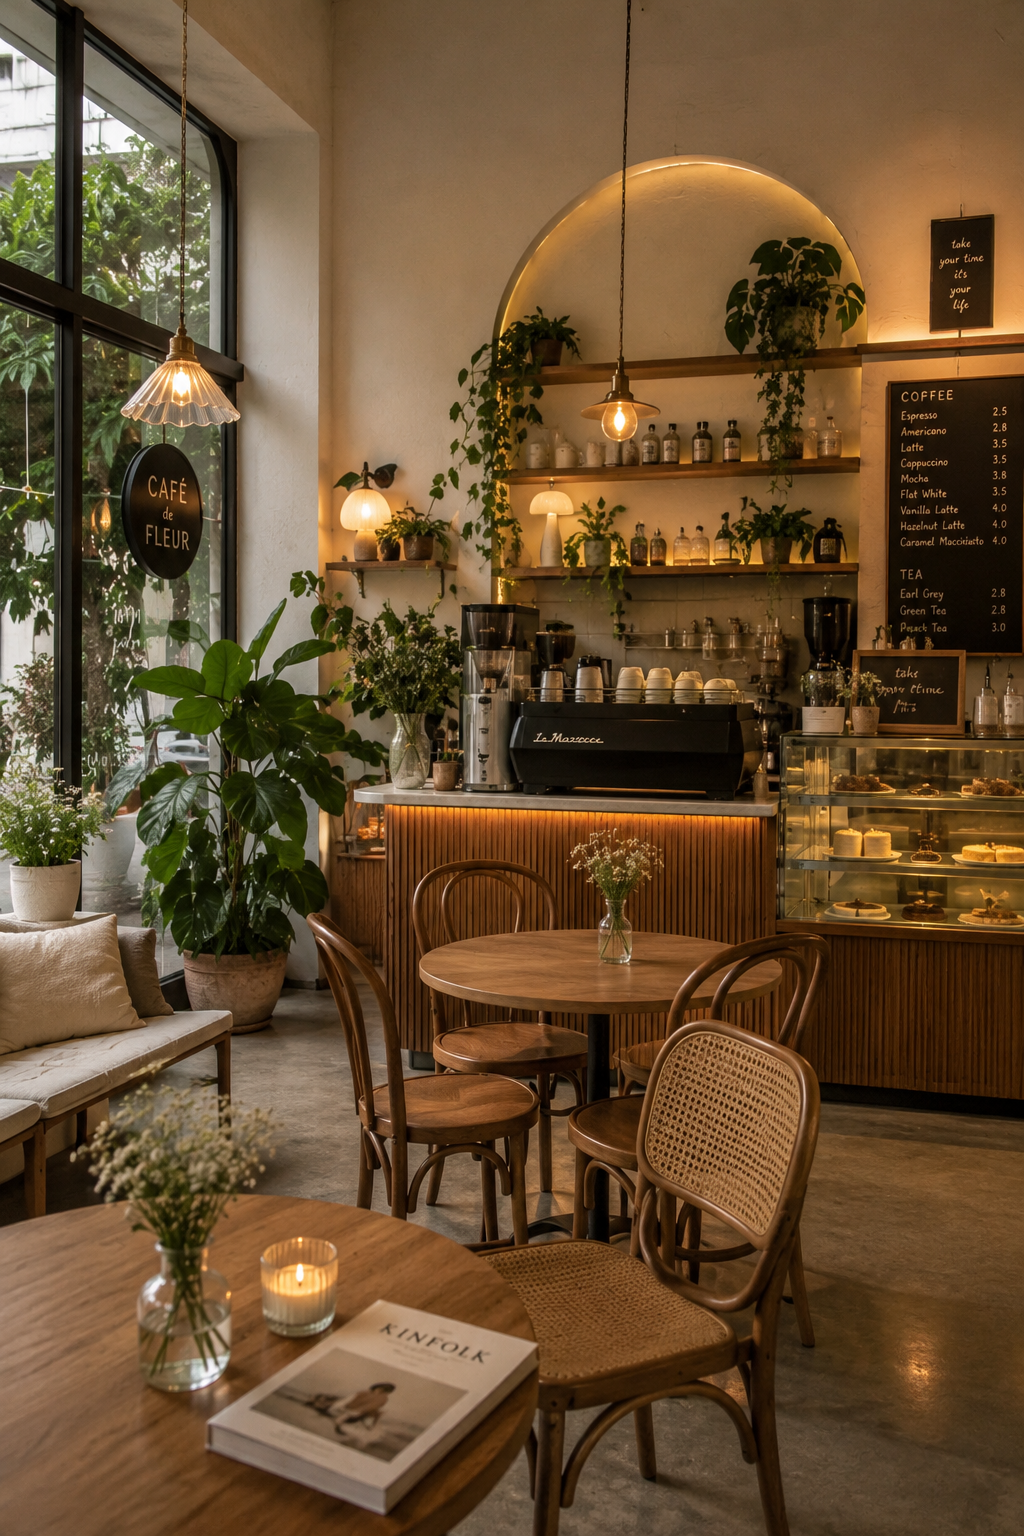
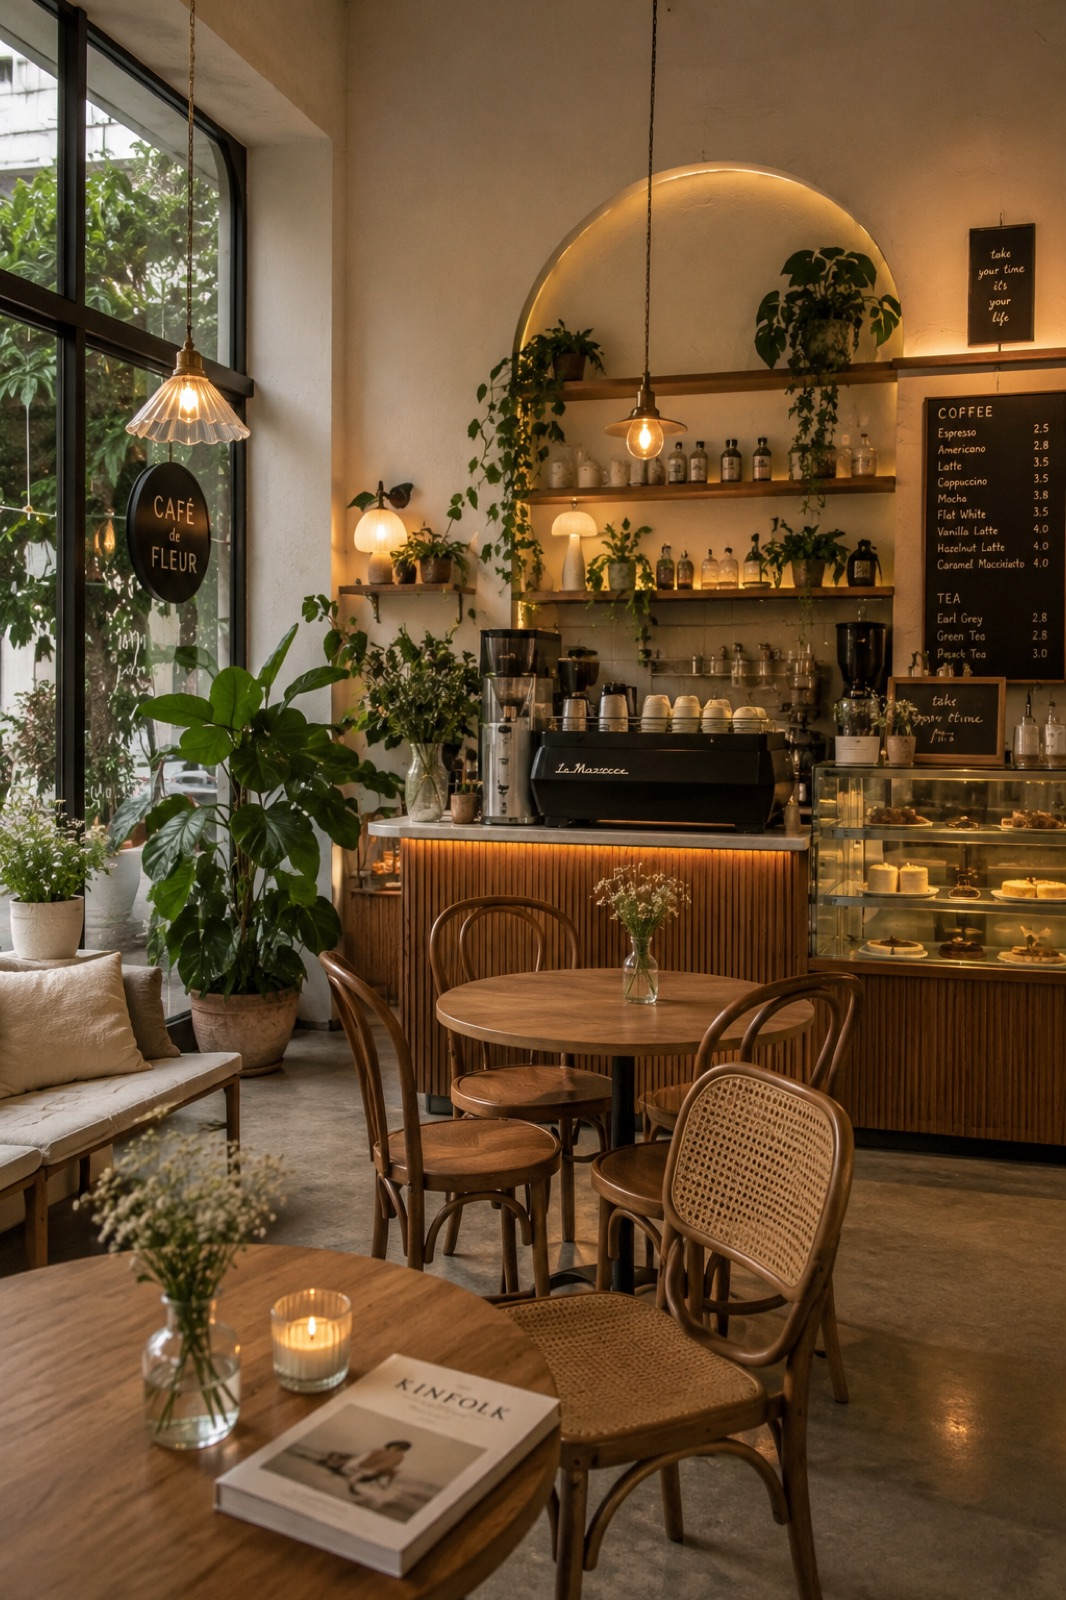
Compress oversized images to fix slow photo loading
All photos were uncompressed PNGs (some mislabeled with .jpg), 1-2.6MB
each. Re-encoded as proper JPEGs at web-appropriate resolution/quality,
cutting total image weight from ~23MB to ~3.7MB. Renamed the PNG-named
files to .jpg to match their actual format and updated references.

diff --git a/src/components/Gallery.tsx b/src/components/Gallery.tsx
@@ -3,13 +3,13 @@ import { Play } from "lucide-react";
 import Reveal from "./Reveal";
 
 const ITEMS = [
-  { type: "image", src: "/images/hero-interior.png", alt: "Warmes Interior eines modernen Specialty-Coffee-Shops", caption: "Coffee Shop Atmosphere", wide: true },
-  { type: "image", src: "/images/drinks.png", alt: "Cappuccino und Cold Brew im warmen Licht", caption: "Signature Drinks" },
-  { type: "image", src: "/images/cafe-interior.png", alt: "Stilvoller Coffee-Shop-Tisch mit Cappuccino und Pflanzen", caption: "Coffee Moments" },
-  { type: "image", src: "/images/bagels.png", alt: "Artisan Bagel Sandwich und Croissant auf einem Keramikteller", caption: "Bagels & Snacks" },
-  { type: "image", src: "/images/sweets.png", alt: "Matcha Cake und Iced Matcha Latte in ästhetischer Präsentation", caption: "Sweet Treats" },
-  { type: "image", src: "/images/cocktails.png", alt: "Warmes Coffee-und-Cocktail-Stillleben", caption: "Cocktails" },
-  { type: "image", src: "/images/breakfast-bowl.png", alt: "Frühstücksbowl mit Früchten, Granola und Kaffee", caption: "Breakfast Bowls" },
+  { type: "image", src: "/images/hero-interior.jpg", alt: "Warmes Interior eines modernen Specialty-Coffee-Shops", caption: "Coffee Shop Atmosphere", wide: true },
+  { type: "image", src: "/images/drinks.jpg", alt: "Cappuccino und Cold Brew im warmen Licht", caption: "Signature Drinks" },
+  { type: "image", src: "/images/cafe-interior.jpg", alt: "Stilvoller Coffee-Shop-Tisch mit Cappuccino und Pflanzen", caption: "Coffee Moments" },
+  { type: "image", src: "/images/bagels.jpg", alt: "Artisan Bagel Sandwich und Croissant auf einem Keramikteller", caption: "Bagels & Snacks" },
+  { type: "image", src: "/images/sweets.jpg", alt: "Matcha Cake und Iced Matcha Latte in ästhetischer Präsentation", caption: "Sweet Treats" },
+  { type: "image", src: "/images/cocktails.jpg", alt: "Warmes Coffee-und-Cocktail-Stillleben", caption: "Cocktails" },
+  { type: "image", src: "/images/breakfast-bowl.jpg", alt: "Frühstücksbowl mit Früchten, Granola und Kaffee", caption: "Breakfast Bowls" },
   { type: "video", src: "/videos/croissant-bowl.mp4", poster: "/images/croissant-bowl-poster.jpg", caption: "Frisch aus dem Ofen" },
 ] as const;
 

diff --git a/src/components/Categories.tsx b/src/components/Categories.tsx
@@ -6,12 +6,12 @@ import { Coffee, CupSoda, Croissant, Salad, Sandwich, Wine } from "lucide-react"
 import Reveal from "./Reveal";
 
 const CATEGORIES = [
-  { icon: Coffee, label: "Espresso", sub: "Kräftig & samtig", image: "/images/menu-espresso.png" },
-  { icon: CupSoda, label: "Cold Brew", sub: "Sommerlich kalt", image: "/images/menu-cold-brew.png" },
-  { icon: Sandwich, label: "Bagels", sub: "Herzhaft belegt", image: "/images/bagels.png" },
-  { icon: Croissant, label: "Sweets", sub: "Süße Auszeit", image: "/images/sweets.png" },
-  { icon: Salad, label: "Breakfast", sub: "Frisch & bunt", image: "/images/breakfast-bowl.png" },
-  { icon: Wine, label: "Cocktails", sub: "Für den Abend", image: "/images/cocktails.png" },
+  { icon: Coffee, label: "Espresso", sub: "Kräftig & samtig", image: "/images/menu-espresso.jpg" },
+  { icon: CupSoda, label: "Cold Brew", sub: "Sommerlich kalt", image: "/images/menu-cold-brew.jpg" },
+  { icon: Sandwich, label: "Bagels", sub: "Herzhaft belegt", image: "/images/bagels.jpg" },
+  { icon: Croissant, label: "Sweets", sub: "Süße Auszeit", image: "/images/sweets.jpg" },
+  { icon: Salad, label: "Breakfast", sub: "Frisch & bunt", image: "/images/breakfast-bowl.jpg" },
+  { icon: Wine, label: "Cocktails", sub: "Für den Abend", image: "/images/cocktails.jpg" },
 ];
 
 export default function Categories() {

diff --git a/src/data/menu.ts b/src/data/menu.ts
@@ -12,27 +12,27 @@ export const MENU: MenuItem[] = [
     name: "House Blend Cappuccino",
     description: "Kräftig, samtig und mit feinporigem Milchschaum serviert.",
     price: "3,80 €",
-    image: "/images/menu-espresso.png",
+    image: "/images/menu-espresso.jpg",
   },
   {
     tag: "Cold Brew",
     name: "Vanilla Almond Shaker",
     description: "Kaltextraktion, Vanille, Mandeldrink und ein cremiger Finish.",
     price: "5,20 €",
-    image: "/images/menu-cold-brew.png",
+    image: "/images/menu-cold-brew.jpg",
   },
   {
     tag: "Bagel",
     name: "Truffle Mushroom Bagel",
     description: "Champignons, Kräutercreme, Rucola und leichter Trüffel-Akzent.",
     price: "6,40 €",
-    image: "/images/bagels.png",
+    image: "/images/bagels.jpg",
   },
   {
     tag: "Sweet Treat",
     name: "Salted Caramel Croissant",
     description: "Buttrig, knusprig, warm serviert und perfekt zum Nachmittagskaffee.",
     price: "4,20 €",
-    image: "/images/menu-salted-caramel-croissant.png",
+    image: "/images/menu-salted-caramel-croissant.jpg",
   },
 ];
